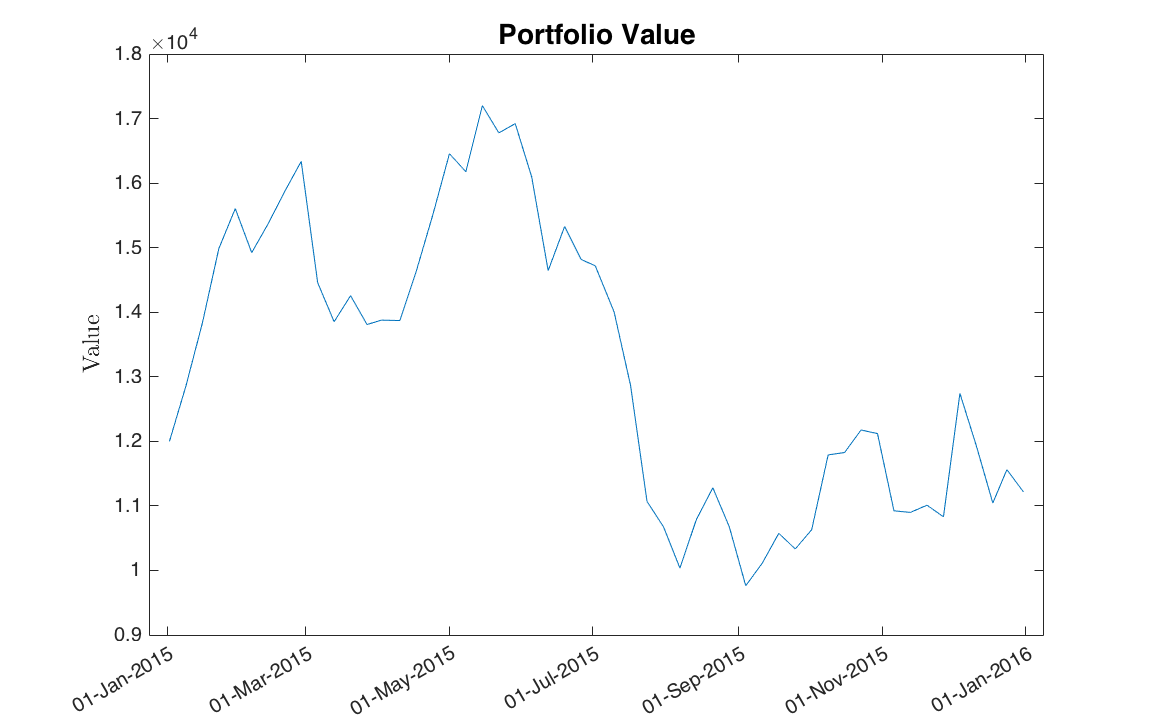
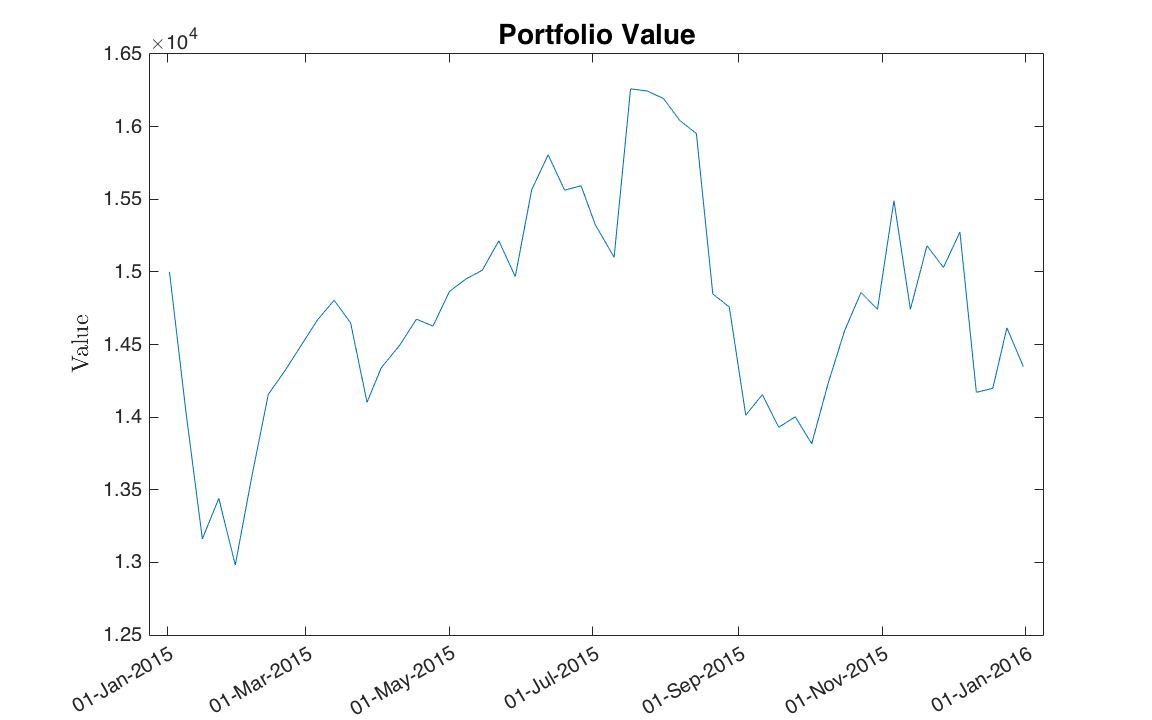
fixing numbers

diff --git a/Stochastic_Programming.m b/Stochastic_Programming.m
@@ -69,7 +69,7 @@ rho = corrcov(cov);
 L = chol(rho, 'lower');
 
 % define the number of randomized scenarios to sample for
-S = 20;
+S = 5;
 
 % our simulated asset prices and returns
 sim_price = zeros(n,S);
@@ -120,12 +120,12 @@ zlabel('Asset Price','interpreter','latex','FontSize',12);
 p = 1/S;
 
 % we have an initial budget of 15,000
-B = 12000;
+B = 15000;
 
-% the benefit of running a surplus will be a 500 and the cost of running a
-% shortfall will be -1000
-surplus = -500;
-shortfall = 1000;
+% the benefit of running a surplus will be a 2 and the cost of running a
+% shortfall will be -10
+surplus = -1;
+shortfall = 2;
 
 % formulate our objective function
 f = [ones(1,n) repmat(p*[surplus shortfall], 1, S)]';
